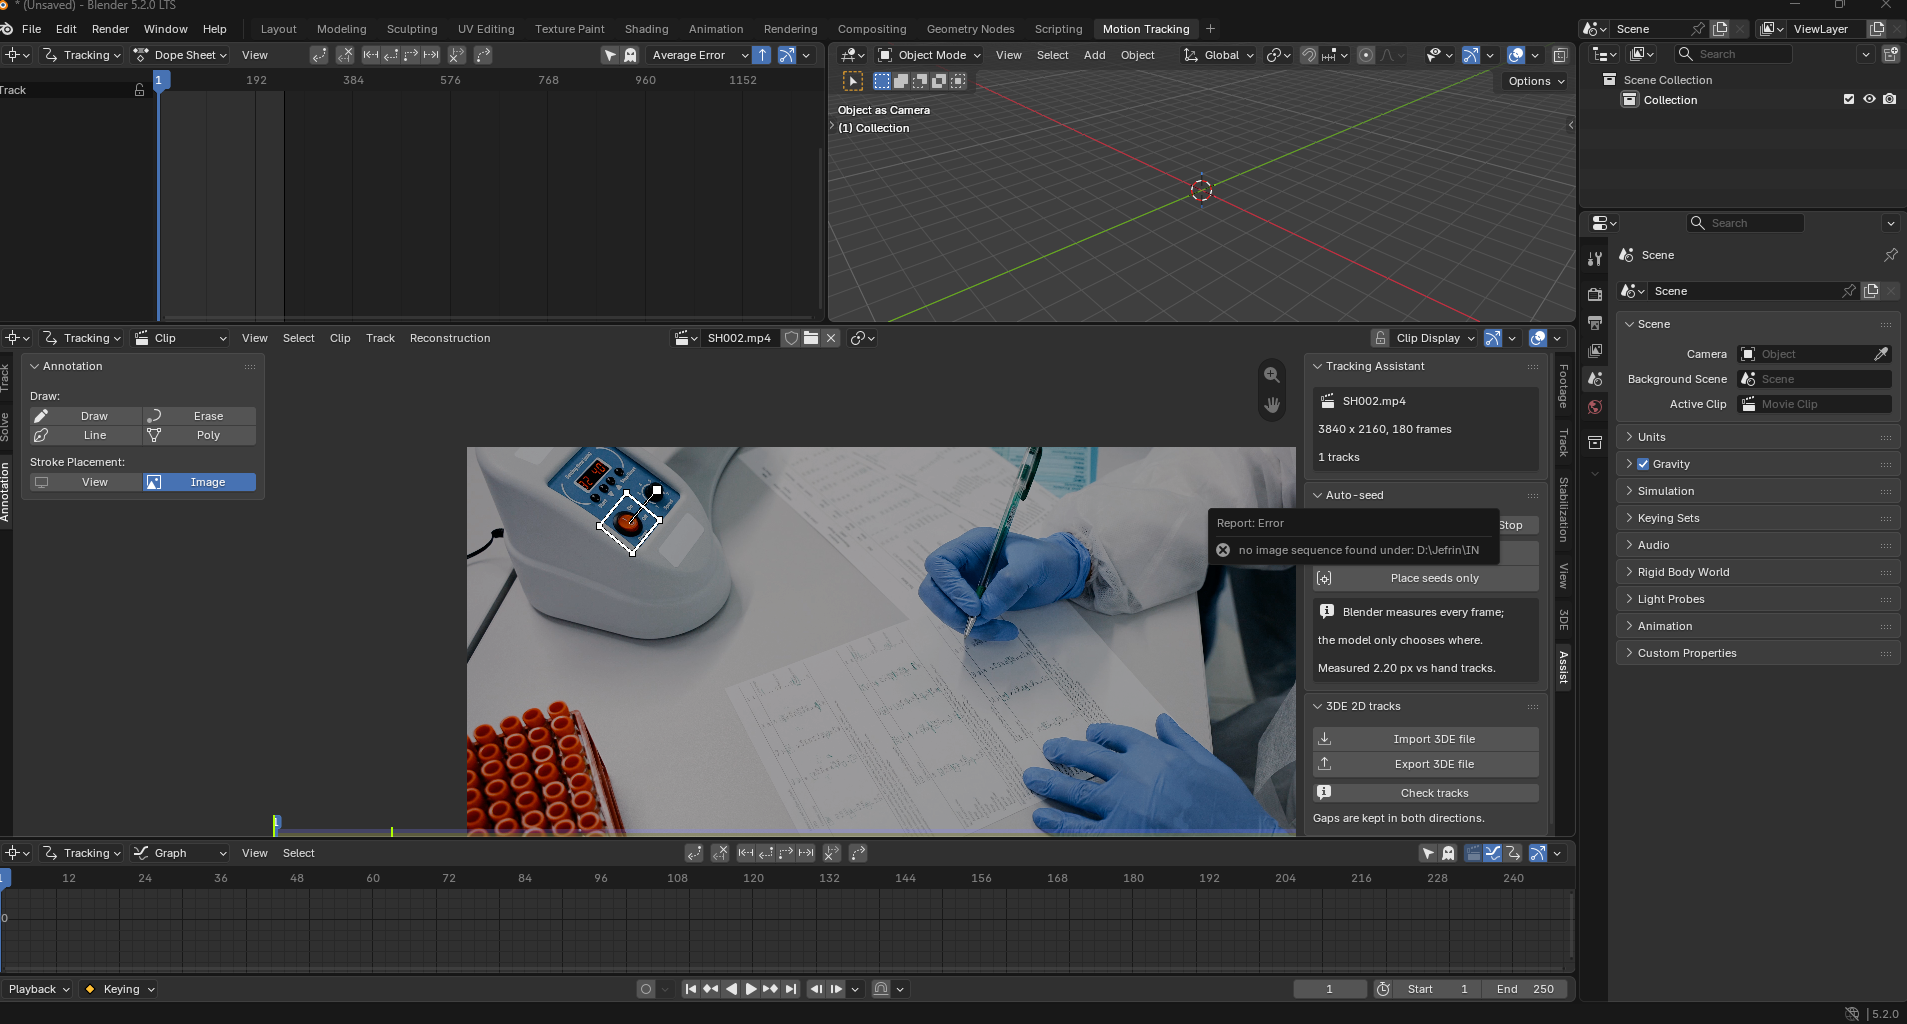
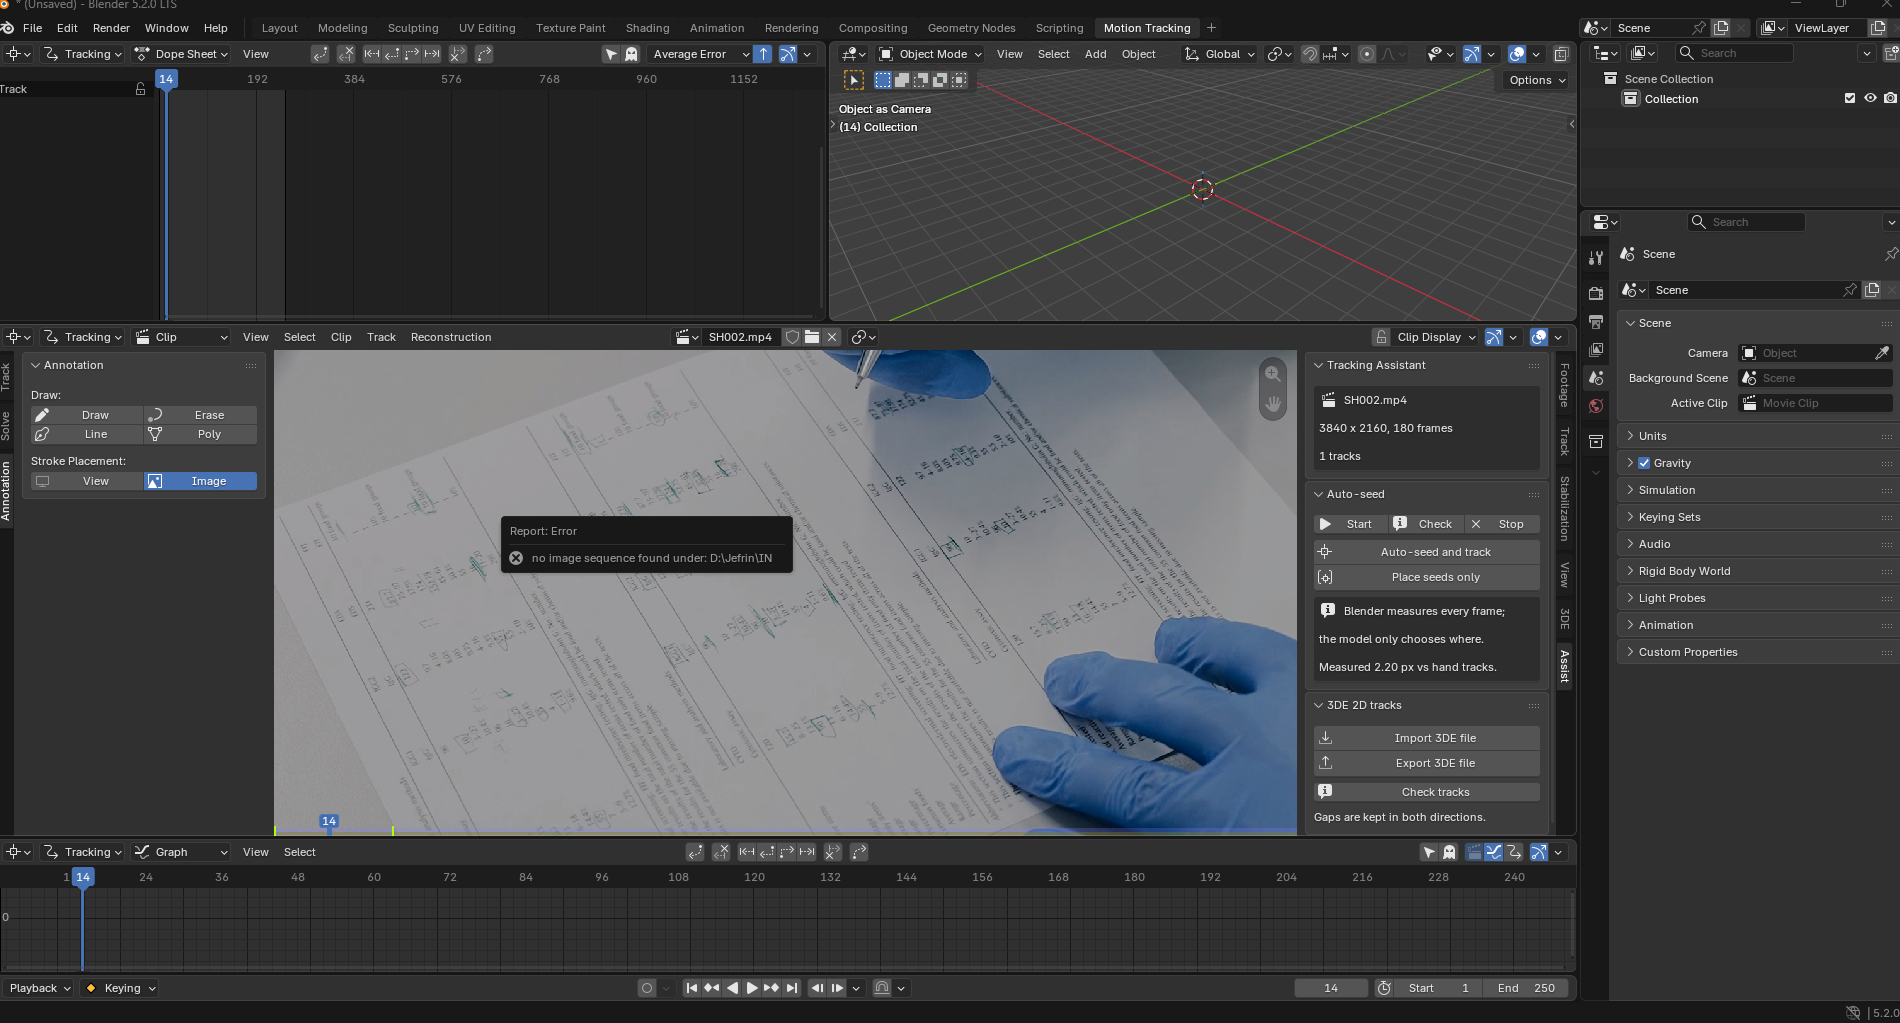
docs(blender): record that the reinstall never happened
Two rounds were spent on a fix that was already correct. The installed
extension was still 0.1.0 and none of the fixes were on disk. Checking the
install directory should have been the first move, not the third -- "reinstall
and restart" is an instruction whose completion nobody can see, including the
person who followed it, and one grep answers it.

Verified 0.1.3 by enabling the real installed extension rather than the source
tree: bl_ext.user_default.btr_assist (0,1,3), source MOVIE, path sent
D:\Jefrin\IN\SH002.mp4.

diff --git a/Blender_assitant/FINDINGS.md b/Blender_assitant/FINDINGS.md
@@ -360,3 +360,30 @@ restored   : use_proxy=True   size=PROXY_50
 Both of these are the same shape as the recipe bug in M2c: **code that looked right, ran
 without error, and quietly did the wrong thing.** None of the three would have been caught
 by a position-accuracy check.
+
+### The reinstall never happened
+
+Two rounds were spent on a fix that was already correct. The installed extension was still
+**0.1.0**, and none of the fixes were on disk:
+
+```
+C:\Users\jefrin\AppData\Roaming\Blender Foundation\Blender\5.2\extensions\user_default\btr_assist
+  "version": (0, 1, 0)          <- installed 15:01, before any fix
+  clip.source == "SEQUENCE"     : absent
+```
+
+Checking the install directory should have been the FIRST move, not the third. "Reinstall
+and restart" is an instruction whose completion nobody can see — including the person who
+followed it. `grep '"version"' <install dir>/__init__.py` is one command and answers it.
+
+Verified after copying 0.1.3 in, by enabling the real installed extension rather than the
+source tree:
+
+```
+enabled: bl_ext.user_default.btr_assist version (0, 1, 3)
+panel line: v0.1.3   source: MOVIE
+path sent : D:\Jefrin\IN\SH002.mp4
+```
+
+Note the module name: an extension is `bl_ext.user_default.<id>`, not `<id>`. Also delete
+`__pycache__` when replacing files in place, or Blender can load stale bytecode.
